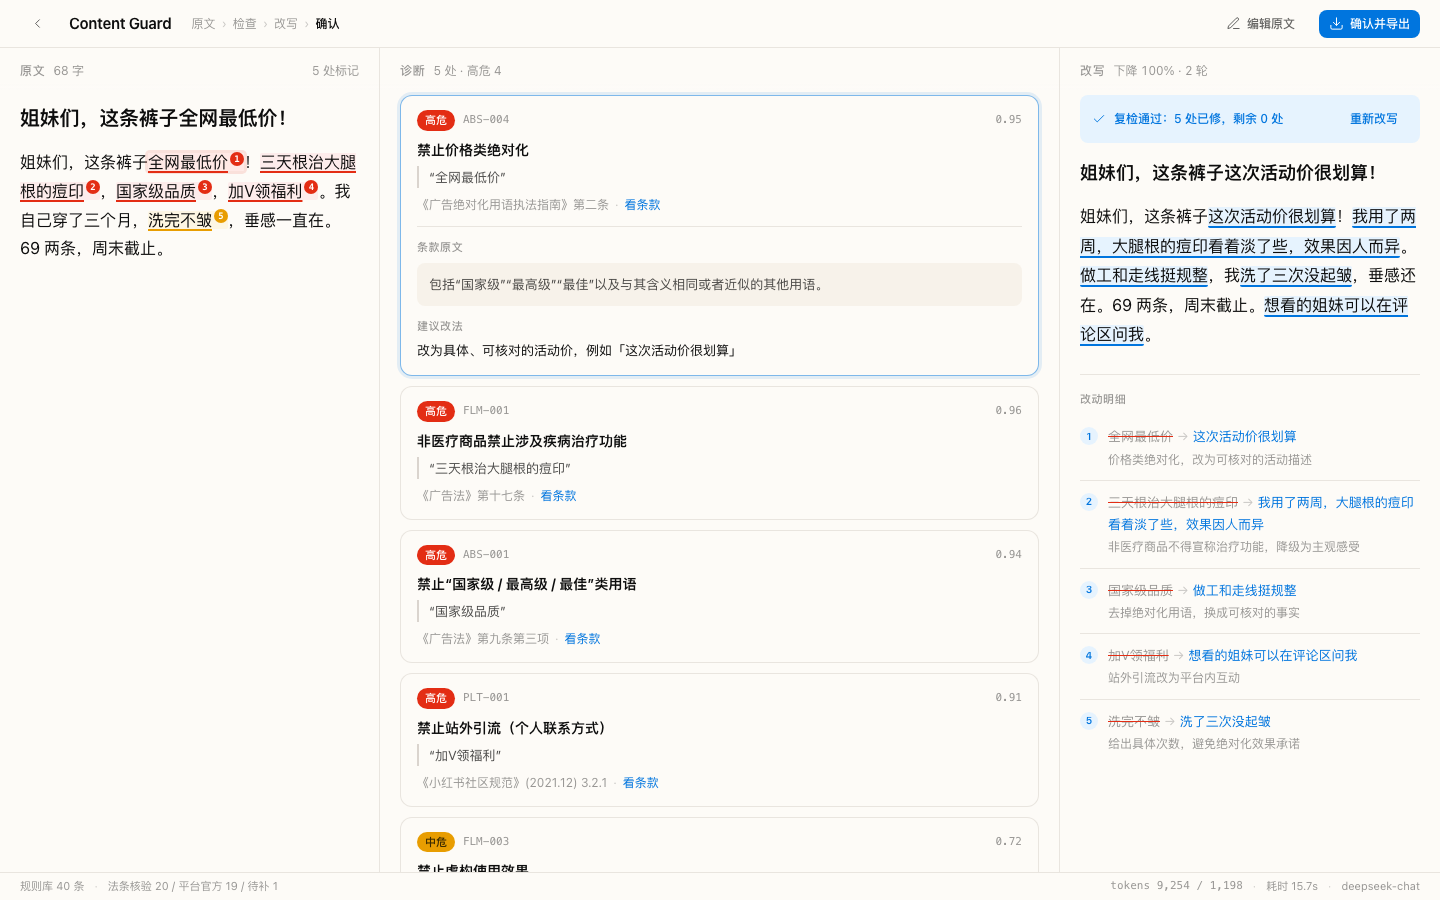
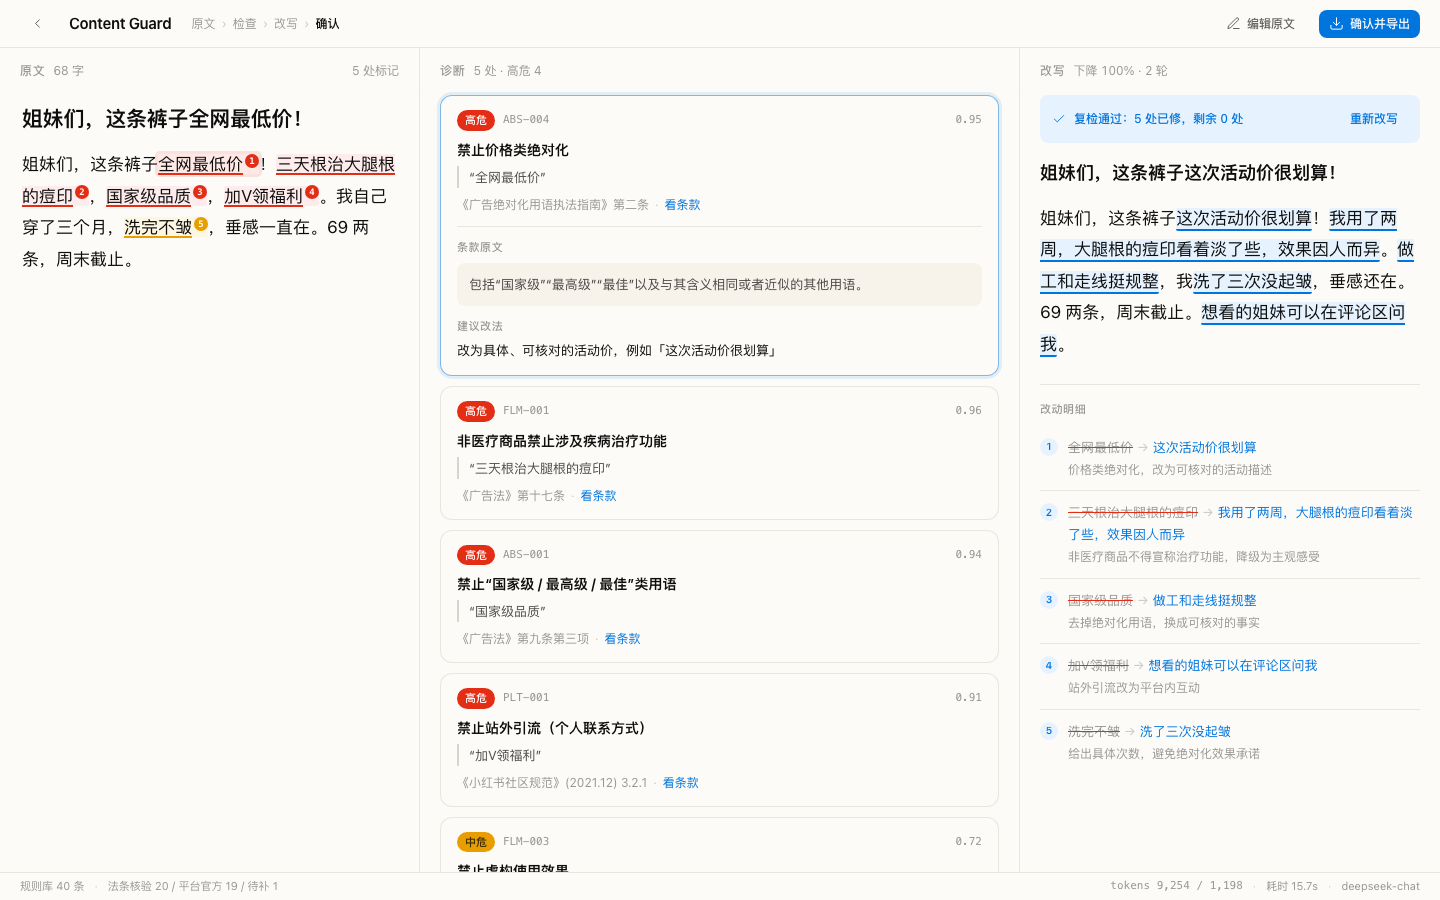
design: 三栏改为 420/600/420，正文 17px 且左右共用同一排版变量

diff --git a/designs/prototype/tokens.css b/designs/prototype/tokens.css
@@ -35,6 +35,10 @@
   --add-bg: #e6f3fe;
 
   /* 圆角与阴影 */
+  /* 正文排版：左（原文）与右（改写）必须完全一致 */
+  --doc-size: 17px;
+  --doc-line: 1.85;
+
   --r-card: 12px;
   --r-btn: 8px;
   --r-pill: 9999px;
@@ -235,7 +239,7 @@ button:disabled { cursor: not-allowed; }
 /* ---------- 工作台三栏 ---------- */
 .workbench {
   display: grid;
-  grid-template-columns: 380px 1fr 380px;
+  grid-template-columns: 420px 1fr 420px;
   height: 100%;
   min-height: 0;
   background: var(--surface);
@@ -280,15 +284,15 @@ button:disabled { cursor: not-allowed; }
 
 /* 正文 */
 .doc {
-  padding: 4px 20px 40px;
-  font-size: 16px;
-  line-height: 1.8;
+  padding: 4px 22px 40px;
+  font-size: var(--doc-size);
+  line-height: var(--doc-line);
   color: var(--ink-100);
   outline: 0;
 }
 
 .doc .title {
-  font-size: 20px;
+  font-size: 21px;
   line-height: 1.45;
   font-weight: 600;
   letter-spacing: -0.2px;
@@ -523,8 +527,8 @@ button:disabled { cursor: not-allowed; }
 }
 
 .rewrite-text {
-  font-size: 16px;
-  line-height: 1.85;
+  font-size: var(--doc-size);
+  line-height: var(--doc-line);
   color: var(--ink-100);
 }
 

diff --git a/docs/ui-structure.md b/docs/ui-structure.md
@@ -383,7 +383,7 @@ StatusBar        底部：字数、模型、tokens、耗时
 
 ### 14.6 宽度
 
-1440 下：左 500 / 中 400 / 右 444（+ 24px 外边距）。1280 下等比压缩，<1024 单列堆叠。
+1440 下：左 420 / 中 600 / 右 420。1280 下等比压缩，<1024 单列堆叠。
 
 ---
 
@@ -398,3 +398,16 @@ StatusBar        底部：字数、模型、tokens、耗时
 **连带调整**
 - 无违规态：右栏不再是一句空提示，改为「可以发布」卡（含资质/报备/AI 标注提醒 + 复制正文）。
 - 底部加 28px 状态条：规则库条数与三档状态、tokens、耗时、模型名——既填空白，也是 demo 时可讲的成本证据。
+
+
+---
+
+## 16. 修订 v4（2026-10-25 · 第二轮原型反馈）
+
+| 反馈 | 改法 |
+|---|---|
+| 中间太宽 | 从 `380 / 1fr / 380`（中 676）改为 **`420 / 1fr / 420`**（中 600）：中栏仍最宽，但不再是"空旷"的感觉 |
+| 左边字太小、太窄 | 正文 **16px → 17px**，行高 1.85；左栏内边距 20 → 22 |
+| 左右字号必须一致 | 抽成两个变量 `--doc-size` / `--doc-line`，**原文区与改写区共用**，杜绝以后一边改一边忘 |
+
+> 用变量而不是写死两处，是因为"左右对齐"是这类双栏产品最容易退化的地方：今天改左边、明天改右边，一周后就对不上了。
